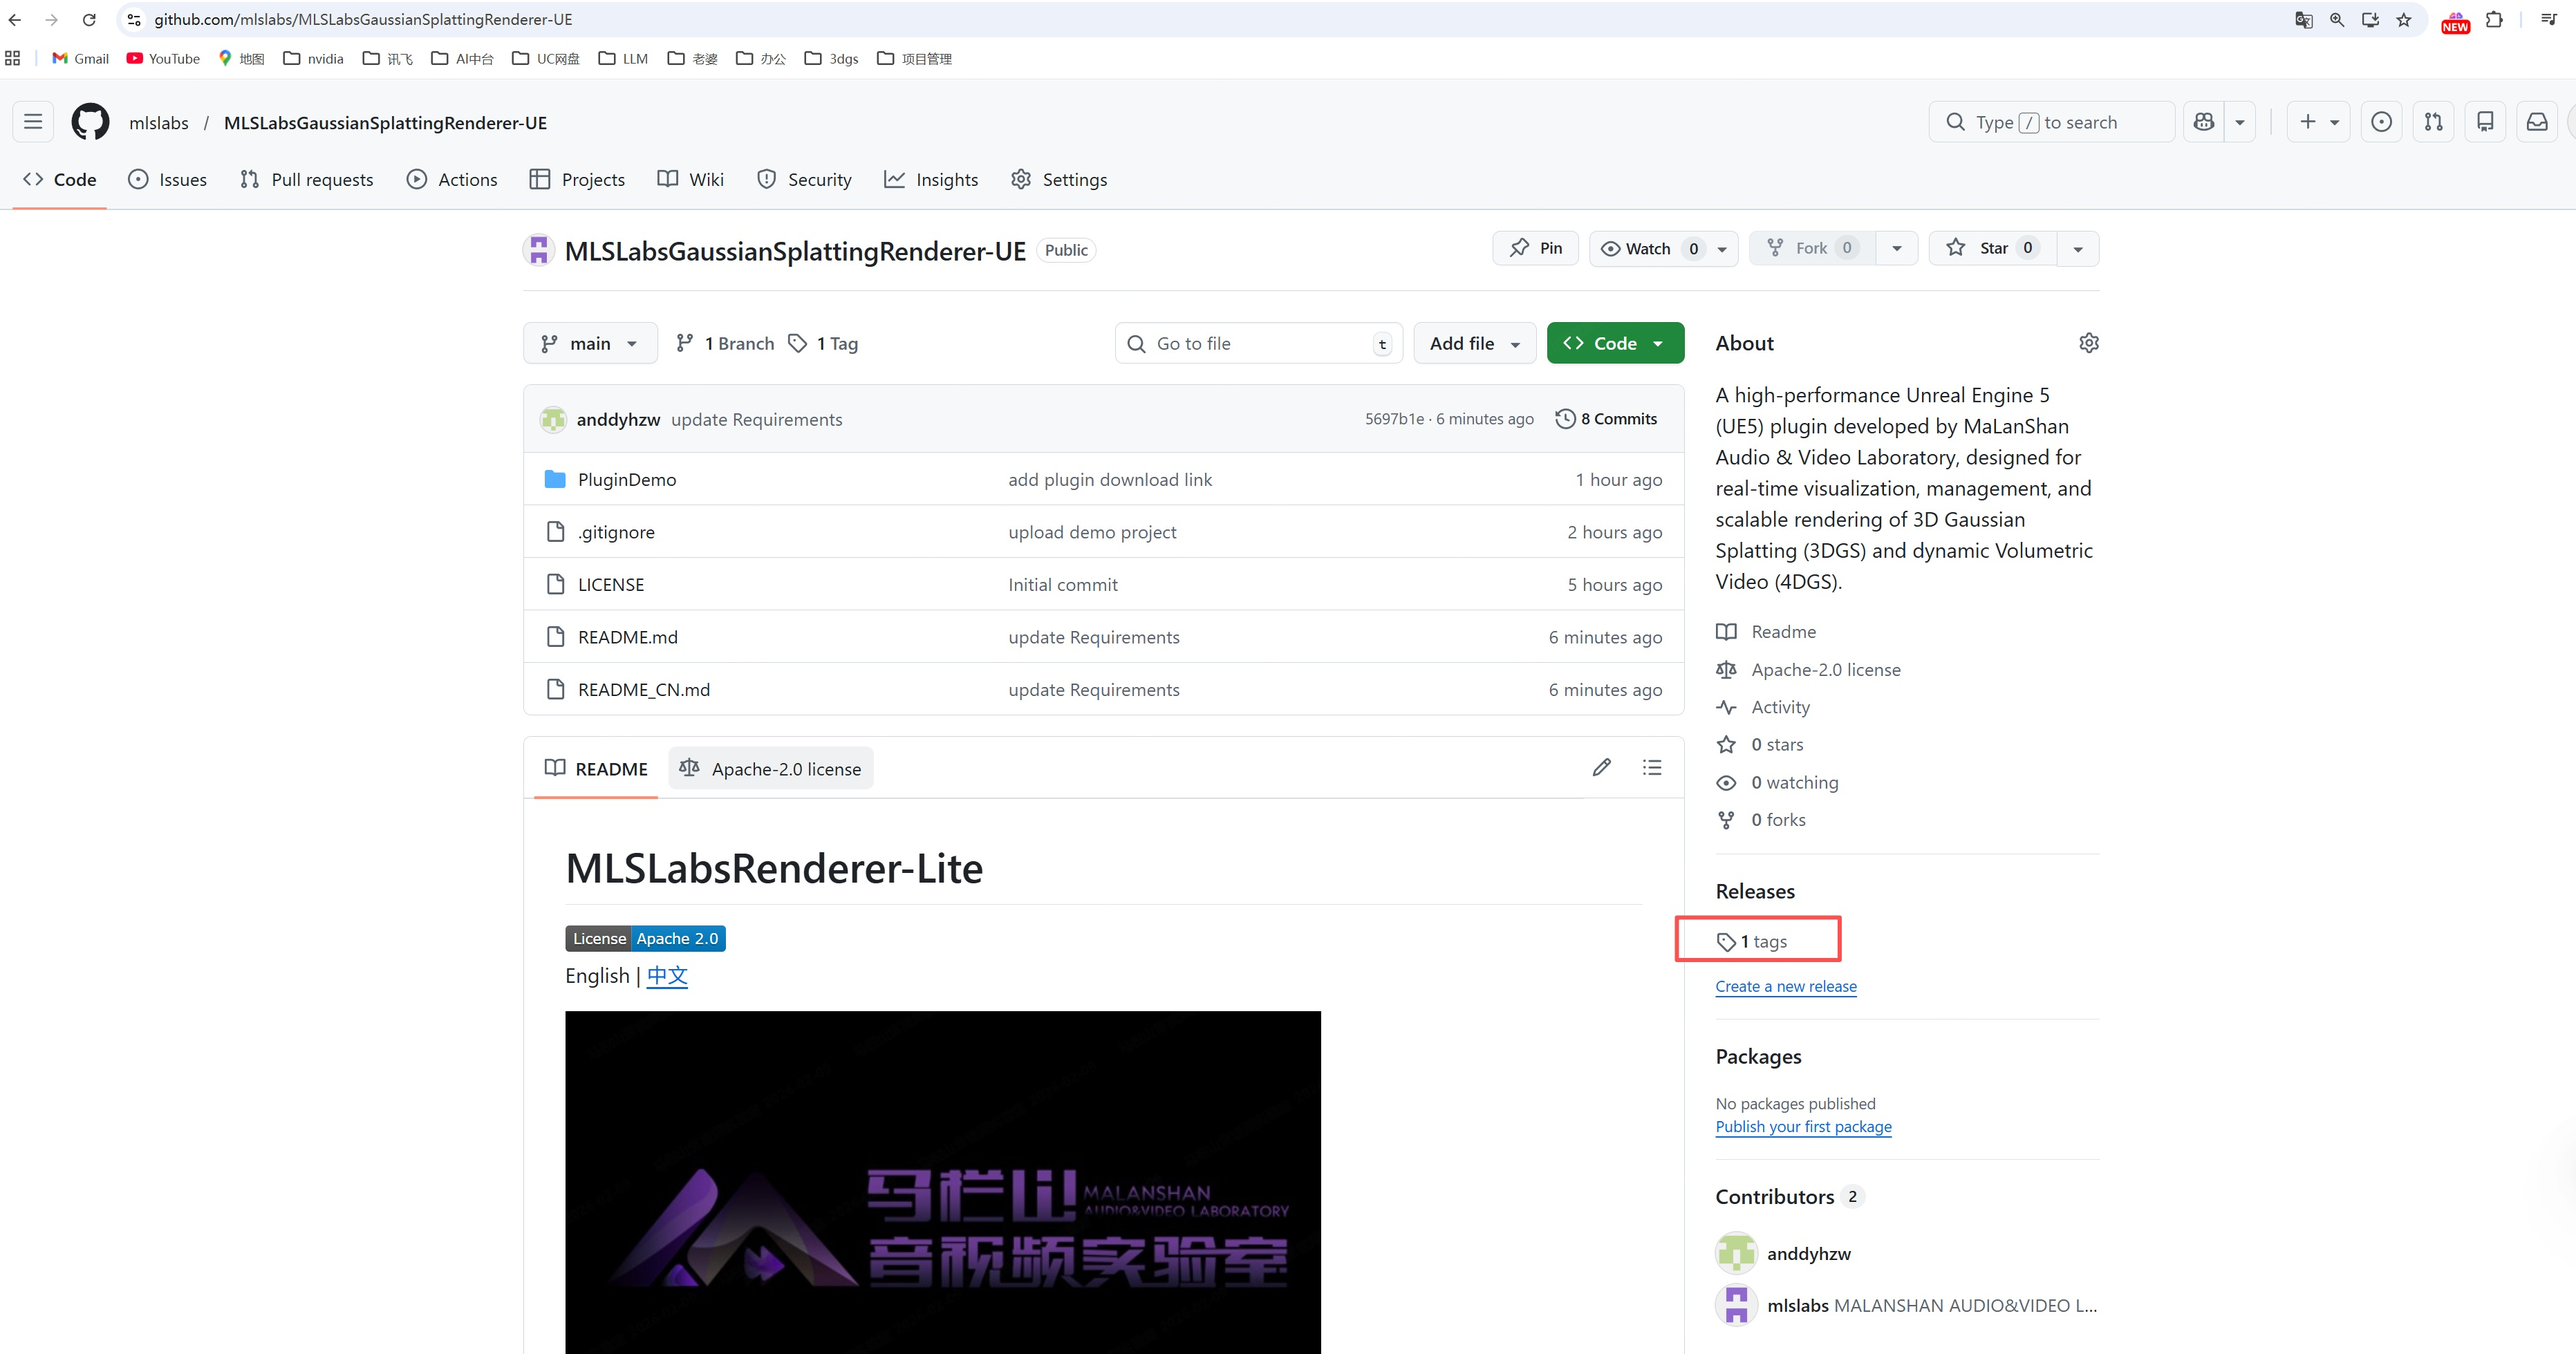
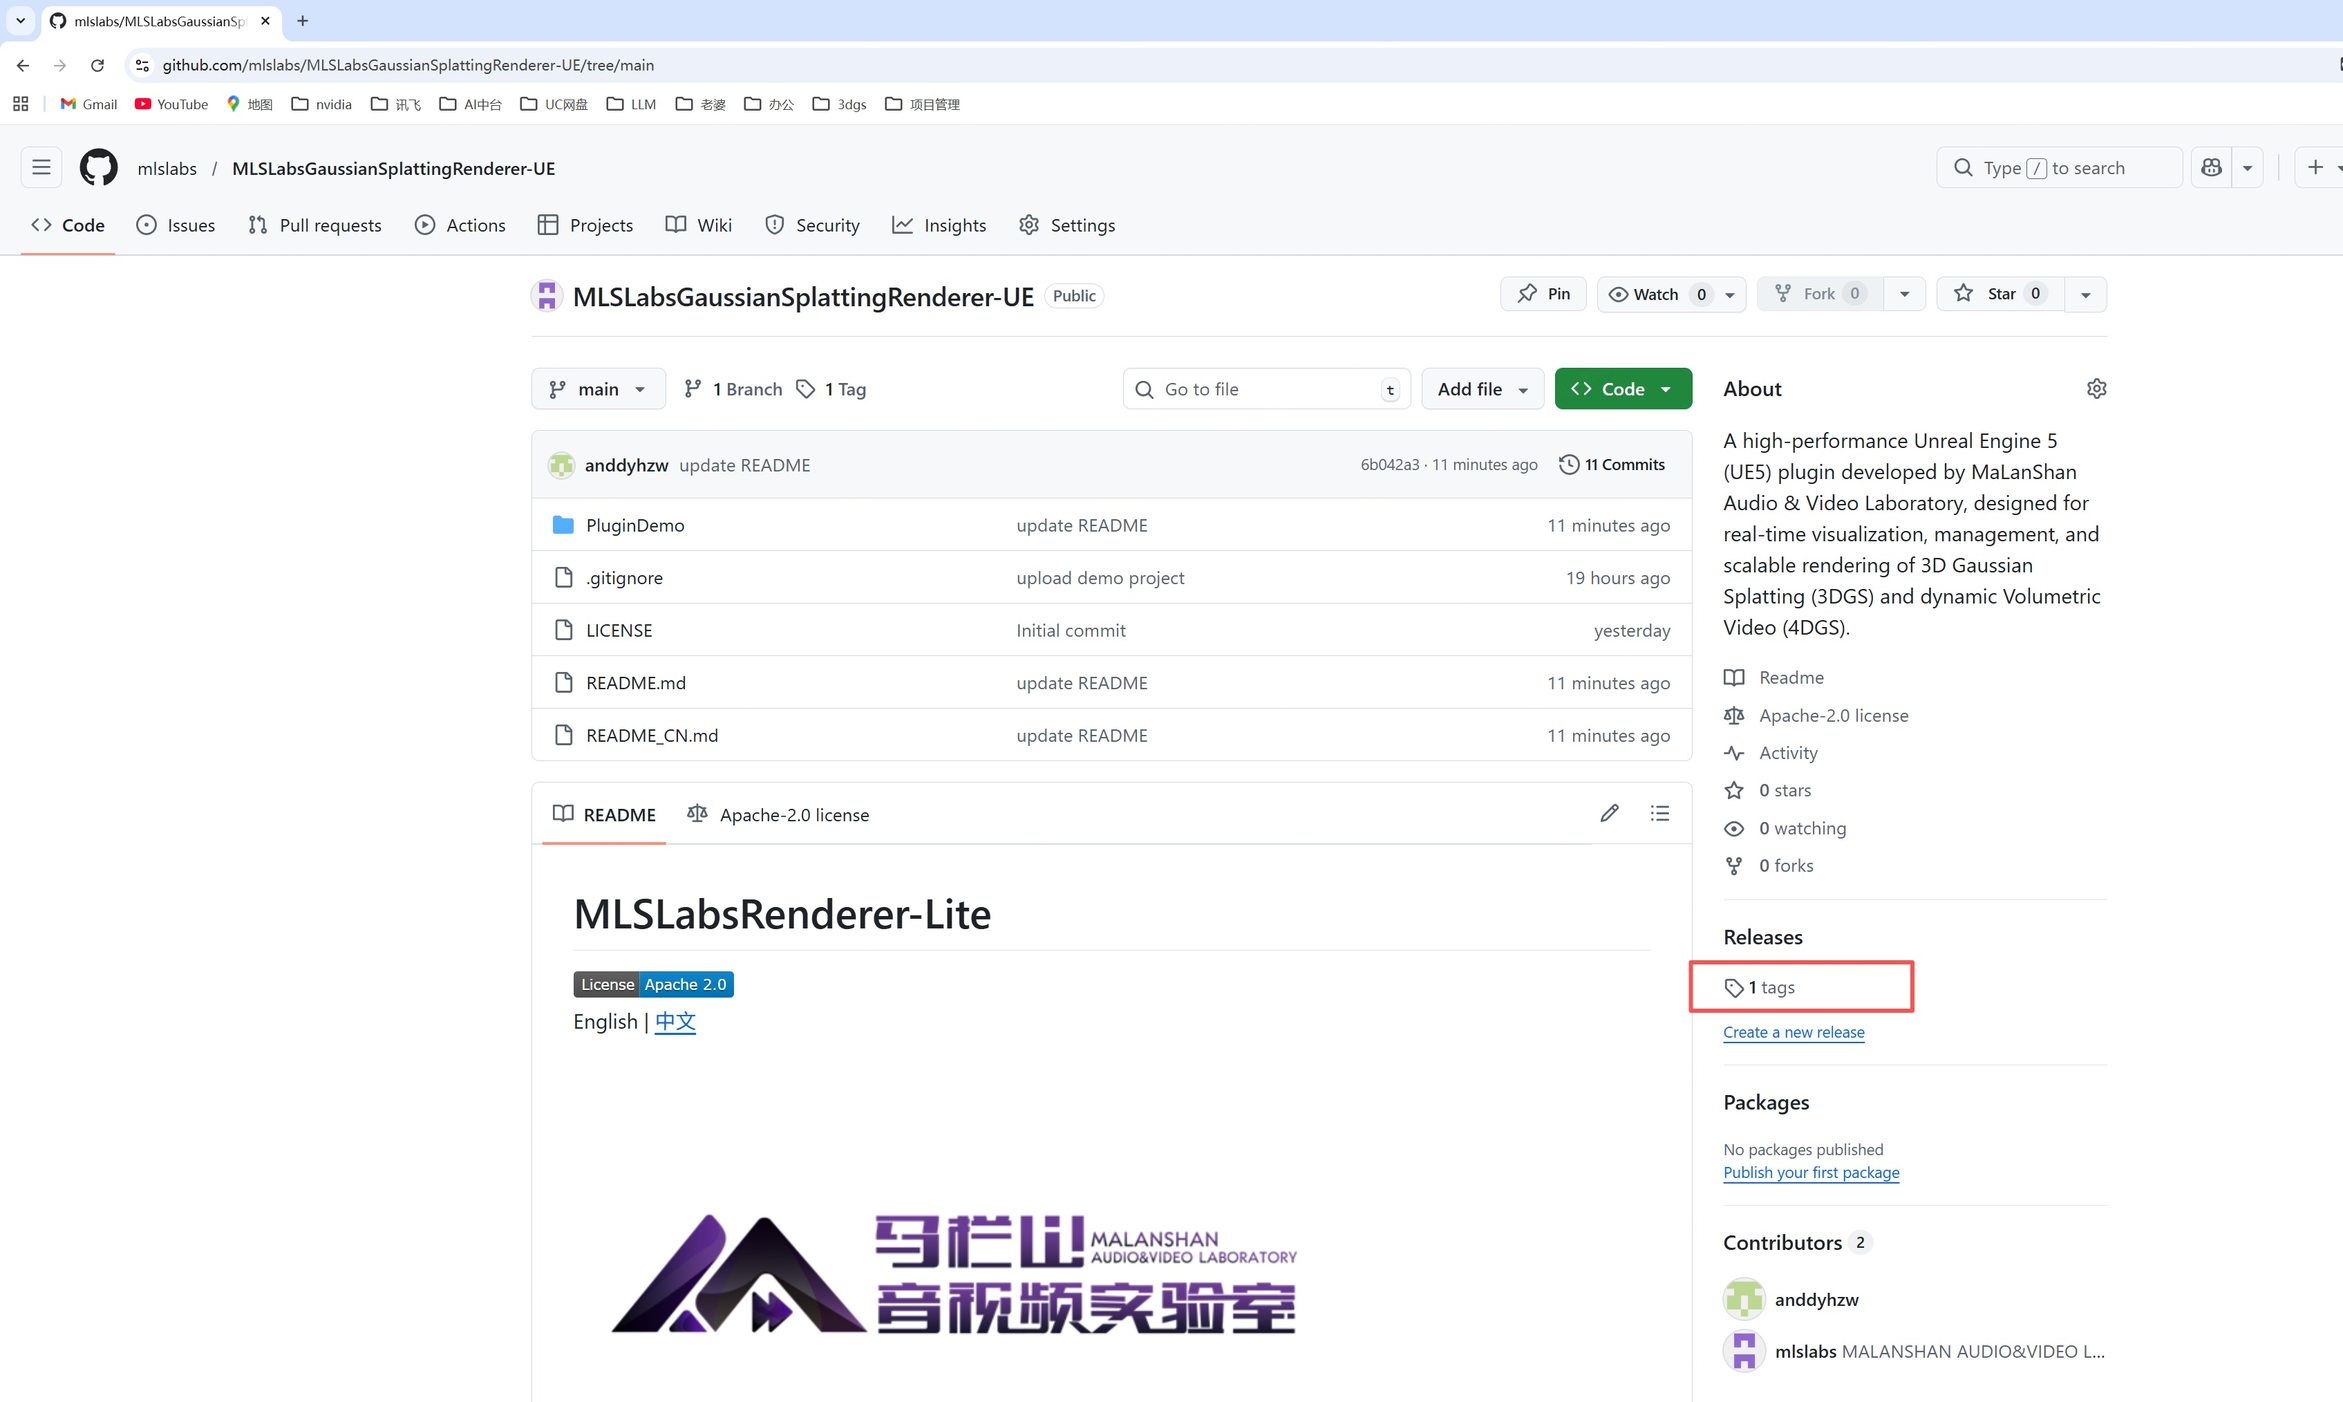
update picture

diff --git a/README.md b/README.md
@@ -94,15 +94,15 @@ Enable MLSLabsRenderer in the Unreal Editor Plugin Browser.
 ### Roadmap (Pro Version)
 The upcoming Professional version will offer significant performance boosts and enterprise-level features:
 
-- [ ]VR & Binocular Rendering: Native support for high-fidelity VR content.
+- [ ] VR & Binocular Rendering: Native support for high-fidelity VR content.
 
-- [ ]Compressed 4DGS: Support for specialized compressed formats to reduce memory usage.
+- [ ] Compressed 4DGS: Support for specialized compressed formats to reduce memory usage.
 
-- [ ]Large-Scale Environments: Support for the .sog format for city-scale static 3DGS.
+- [ ] Large-Scale Environments: Support for the .sog format for city-scale static 3DGS.
 
-- [ ]Advanced Lighting: Support for Point/Directional lights with self-shadowing.
+- [ ] Advanced Lighting: Support for Point/Directional lights with self-shadowing.
 
-- [ ]Performance Boost: 120 FPS+ for 4DGS and 60 FPS+ for 7M+ Gaussians static scenes.
+- [ ] Performance Boost: 120 FPS+ for 4DGS and 60 FPS+ for 7M+ Gaussians static scenes.
 
 ## Release Notes
 [v1.0.0.6-beta]

diff --git a/PluginDemo/README_CN.md b/PluginDemo/README_CN.md
@@ -3,7 +3,7 @@
 <a href="./LICENSE">
         <img alt="License" src="https://img.shields.io/badge/License-Apache_2.0-blue.svg"></a>
 
-English | [中文](./README_CN.md)
+[English](./README.md) | 中文
 
 [
 <img src="Media/image/mlslabs.png" width="583" title="马栏山音视频实验室" />
